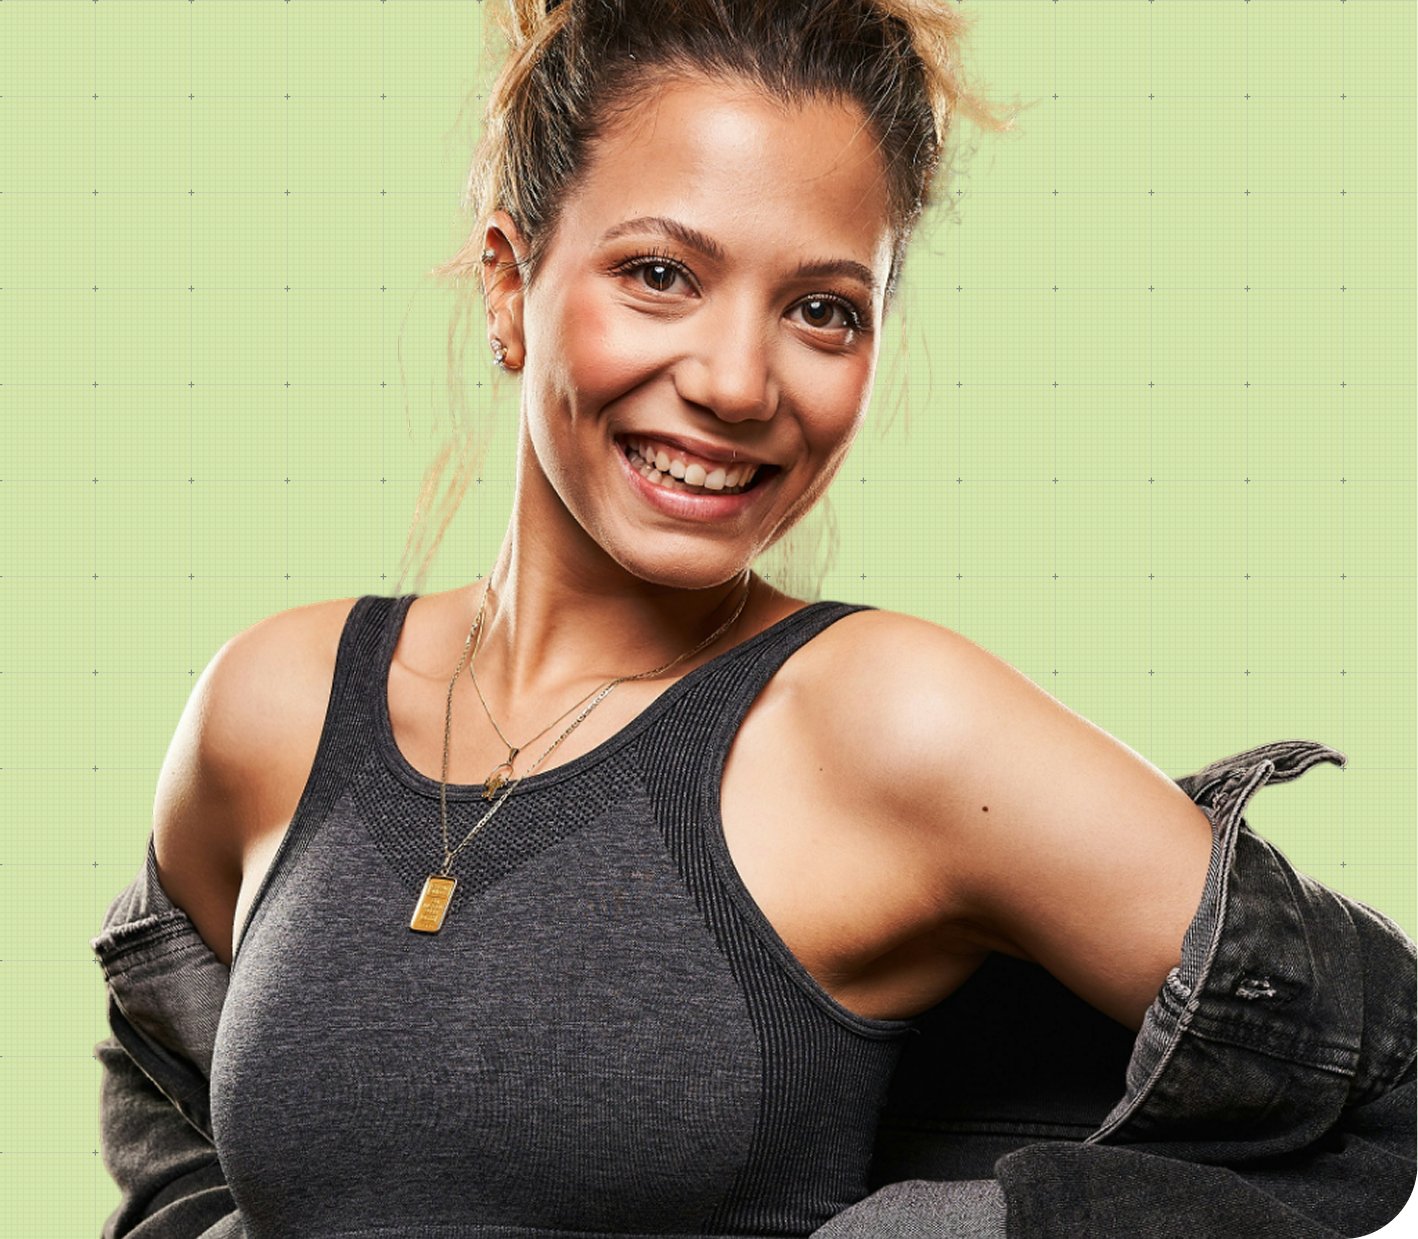
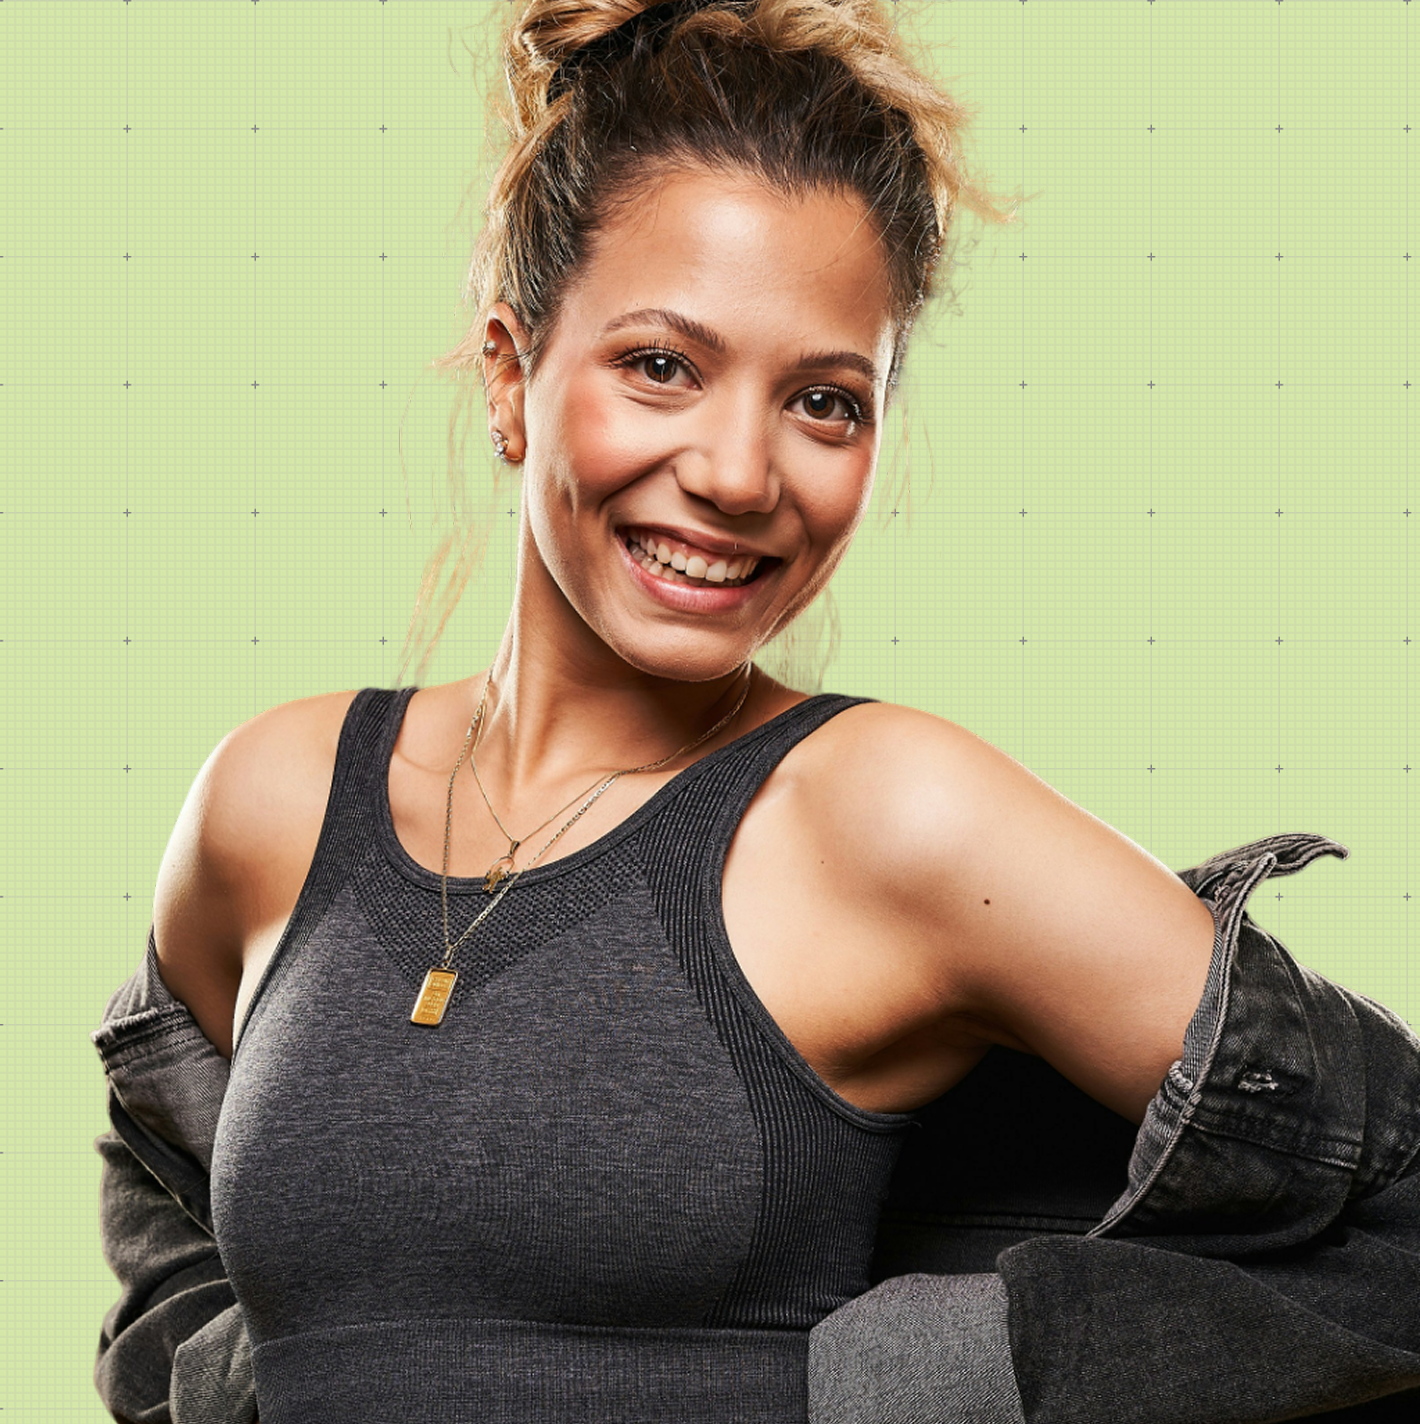
responsive_styling_tablet_features_and_calculator_update

diff --git a/index.html b/index.html
@@ -54,7 +54,7 @@
     <main>
       <section class="section_hero">
         <div class="div_hero_image">
-          <img src="./src/img/hero_trainer_mobil.png" alt="Trainerin vor grünem Hintergrund" />
+          <img src="./src/img/hero_trainer.png" alt="Trainerin vor grünem Hintergrund" />
         </div>
 
         <div class="wrapper_hero_sidetext">
@@ -76,11 +76,11 @@
               and ongoing support. Start your transformation today and experience the power of personalized nutrition
               coaching.
             </p>
-          </div>
 
-          <div class="div_hero_bts">
-            <a>Get Starter Today</a>
-            <a>Book a Demo</a>
+            <div class="div_hero_bts">
+              <a>Get Starter Today</a>
+              <a>Book a Demo</a>
+            </div>
           </div>
         </div>
       </section>
@@ -181,39 +181,41 @@
         </div>
 
         <form class="calculator">
-          <div class="box_input">
-            <label for="size">Body size (in cm)</label>
-            <input type="number" name="size" id="size" value="170" min="120" max="250" required />
-          </div>
+          <div class="wrapper_input">
+            <div class="box_input">
+              <label for="size">Body size (in cm)</label>
+              <input type="number" name="size" id="size" value="170" min="120" max="250" required />
+            </div>
 
-          <div class="box_input">
-            <label for="age">Age</label>
-            <input type="number" name="age" id="age" value="25" max="140" min="1" required />
-          </div>
+            <div class="box_input">
+              <label for="age">Age</label>
+              <input type="number" name="age" id="age" value="25" max="140" min="1" required />
+            </div>
 
-          <div class="box_input">
-            <label for="weight">Weight</label>
-            <input type="number" name="weight" id="weight" step="0.1" value="65" min="1" required />
-          </div>
+            <div class="box_input">
+              <label for="weight">Weight</label>
+              <input type="number" name="weight" id="weight" step="0.1" value="65" min="1" required />
+            </div>
 
-          <div class="box_input">
-            <label for="activity">Activity</label>
-            <div class="wrapper_select">
-              <select
-                type="text"
-                name="activity"
-                id="activity"
-                placeholder="Exclusively sedentary work with..."
-                required>
-                <option value="0.95">Schlafen</option>
-                <option value="1.2">Nur Sitzen oder Liegen</option>
-                <option value="1.5">
-                  Ausschließlich sitzende Tätigkeit mit wenig oder keiner körperlichen Aktivität in der Freizeit
-                </option>
-                <option value="1.7">Sitzende Tätigkeit mit zeitweilig gehender oder stehender Tätigkeit</option>
-                <option value="1.9">Überwiegend gehende oder stehende Tätigkeit</option>
-                <option value="2.2">Körperlich anstrengende berufliche Arbeit</option>
-              </select>
+            <div class="box_input">
+              <label for="activity">Activity</label>
+              <div class="wrapper_select">
+                <select
+                  type="text"
+                  name="activity"
+                  id="activity"
+                  placeholder="Exclusively sedentary work with..."
+                  required>
+                  <option value="0.95">Schlafen</option>
+                  <option value="1.2">Nur Sitzen oder Liegen</option>
+                  <option value="1.5">
+                    Ausschließlich sitzende Tätigkeit mit wenig oder keiner körperlichen Aktivität in der Freizeit
+                  </option>
+                  <option value="1.7">Sitzende Tätigkeit mit zeitweilig gehender oder stehender Tätigkeit</option>
+                  <option value="1.9">Überwiegend gehende oder stehende Tätigkeit</option>
+                  <option value="2.2">Körperlich anstrengende berufliche Arbeit</option>
+                </select>
+              </div>
             </div>
           </div>
 

diff --git a/src/css/tablet.css b/src/css/tablet.css
@@ -67,4 +67,123 @@
   .burger_menu {
     display: none;
   }
+
+  /* * ------------------- Section Hero ------------------ */
+
+  .section_hero {
+    display: flex;
+    justify-content: space-evenly;
+    width: 100vw;
+  }
+
+  .div_hero_image {
+    width: 100vw;
+    height: 120rem;
+    overflow: hidden;
+    margin-left: -1rem;
+    border-bottom-left-radius: 0rem;
+  }
+
+  .div_hero_image img {
+    width: 100%;
+    height: 100%;
+    object-fit: cover;
+  }
+
+  .div_herotext {
+    width: 50vw;
+    margin: 1rem;
+    display: flex;
+    flex-direction: column;
+    align-items: start;
+  }
+
+  .div_herotext h1,
+  .div_herotext h3,
+  .div_herotext p {
+    align-items: start;
+    text-align: left;
+  }
+
+  .div_herotext h3 {
+    margin: 1.5rem 0;
+  }
+
+  .wrapper_hero_sidetext {
+    display: flex;
+    flex-direction: column-reverse;
+    justify-content: start;
+    align-items: start;
+  }
+
+  .div_customers {
+    display: flex;
+    flex-direction: row;
+    align-items: center;
+    gap: 0.5rem;
+    margin-left: 1rem;
+  }
+
+  /* * ------------------- Section Features ------------------ */
+
+  .section_features {
+    margin: 5rem 0;
+  }
+
+  .div_features {
+    display: flex;
+    flex-direction: row;
+    flex-wrap: wrap;
+    justify-content: center;
+    gap: 1.5rem;
+  }
+
+  .box_features {
+    width: 43vw;
+    margin-bottom: 0;
+  }
+
+  /* * ------------------- Section Calculator ------------------ */
+
+  /*  --------- Form Calculator  --------- */
+
+  .calculator {
+    display: flex;
+    flex-direction: column;
+    justify-content: center;
+    gap: 1.5rem;
+  }
+
+  .wrapper_input {
+    display: flex;
+    flex-wrap: wrap;
+    justify-content: center;
+    gap: 1.5rem;
+  }
+
+  .box_input input,
+  .box_input select {
+    width: 43vw;
+    display: flex;
+    flex-direction: column;
+  }
+
+  /*  --------- Result Calculator --------- */
+
+  .div_calculator_result,
+  .calculator button {
+    margin: 0 auto;
+  }
+
+  .div_calculator_result {
+    max-width: 60vw;
+  }
+
+  .calculator button {
+    max-width: 18rem;
+  }
+
+  /* * ------------------- Footer ------------------ */
+
+  /*  --------- Section Footer Nav --------- */
 }

diff --git a/src/css/mobile.css b/src/css/mobile.css
@@ -159,7 +159,10 @@ header {
 
 .div_hero_image {
   max-width: 100vw;
+  max-height: 60vh;
   overflow: hidden;
+  border-bottom-right-radius: 2rem;
+  border-bottom-left-radius: 2rem;
 }
 
 .div_hero_image img {
@@ -281,7 +284,7 @@ header {
   border: 0.1rem solid var(--box-border-color);
   border-radius: 0.5rem;
   background-color: var(--box-bg-color);
-  padding: 2rem;
+  padding: 2rem 2rem 4rem;
   margin-bottom: 1.5rem;
 }
 
@@ -346,7 +349,7 @@ header {
 
 .div_calculator_result {
   display: none;
-  margin-top: 2rem;
+  margin-top: 3rem;
   border: 0.1rem solid var(--box-border-color);
   border-radius: 0.5rem;
   background-color: white;
